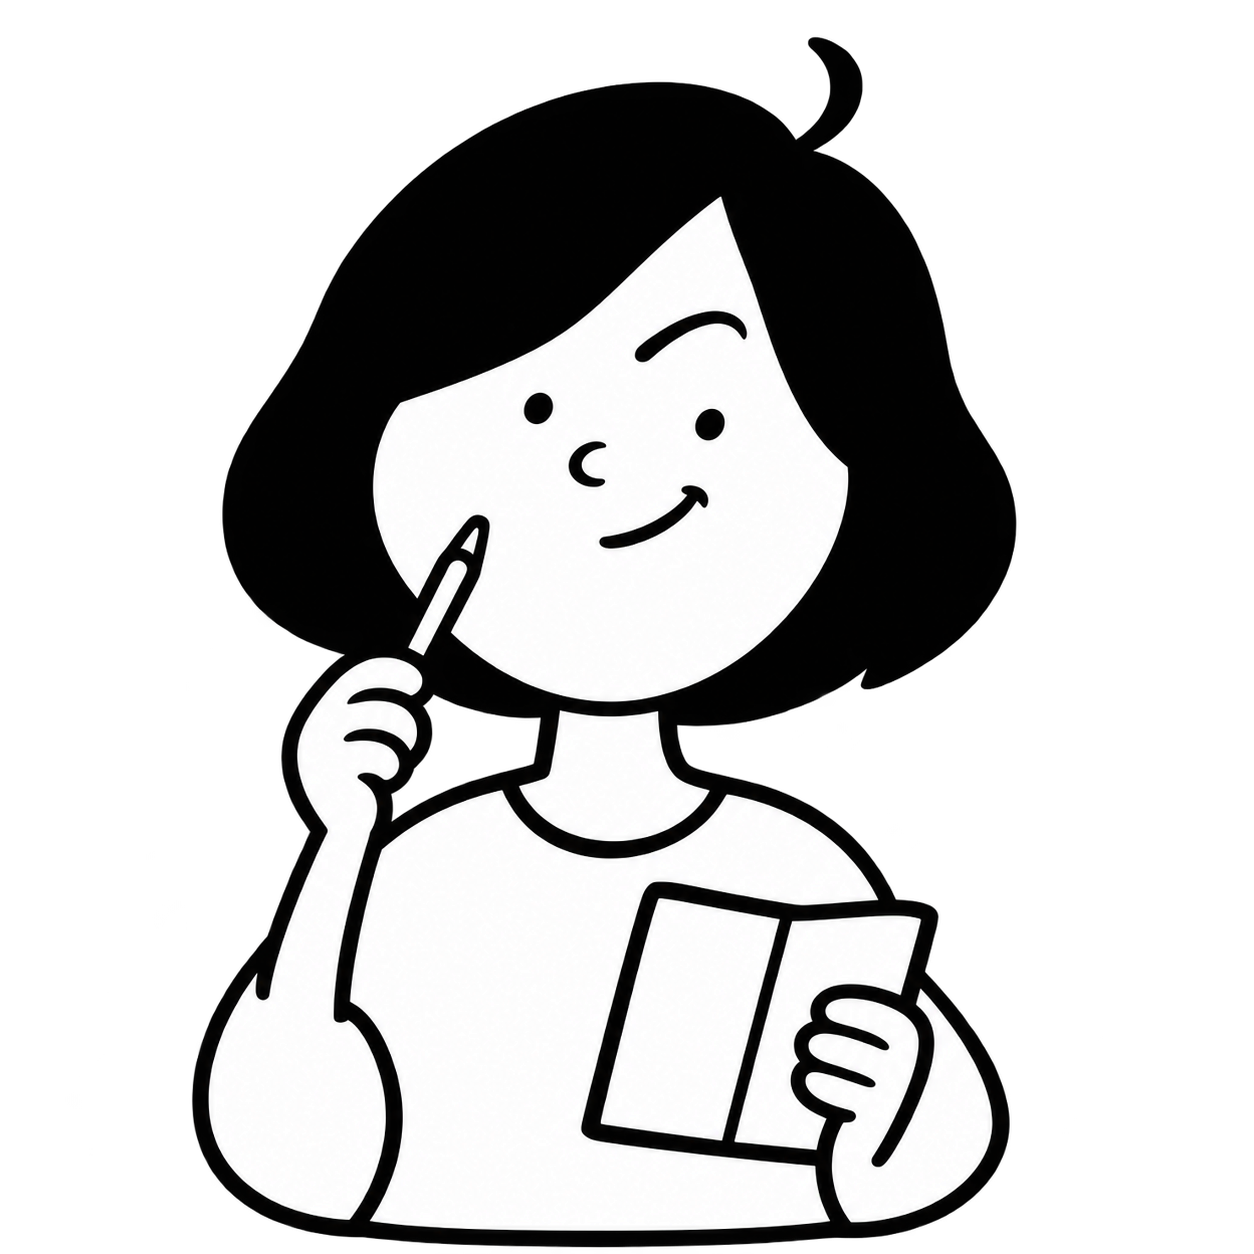
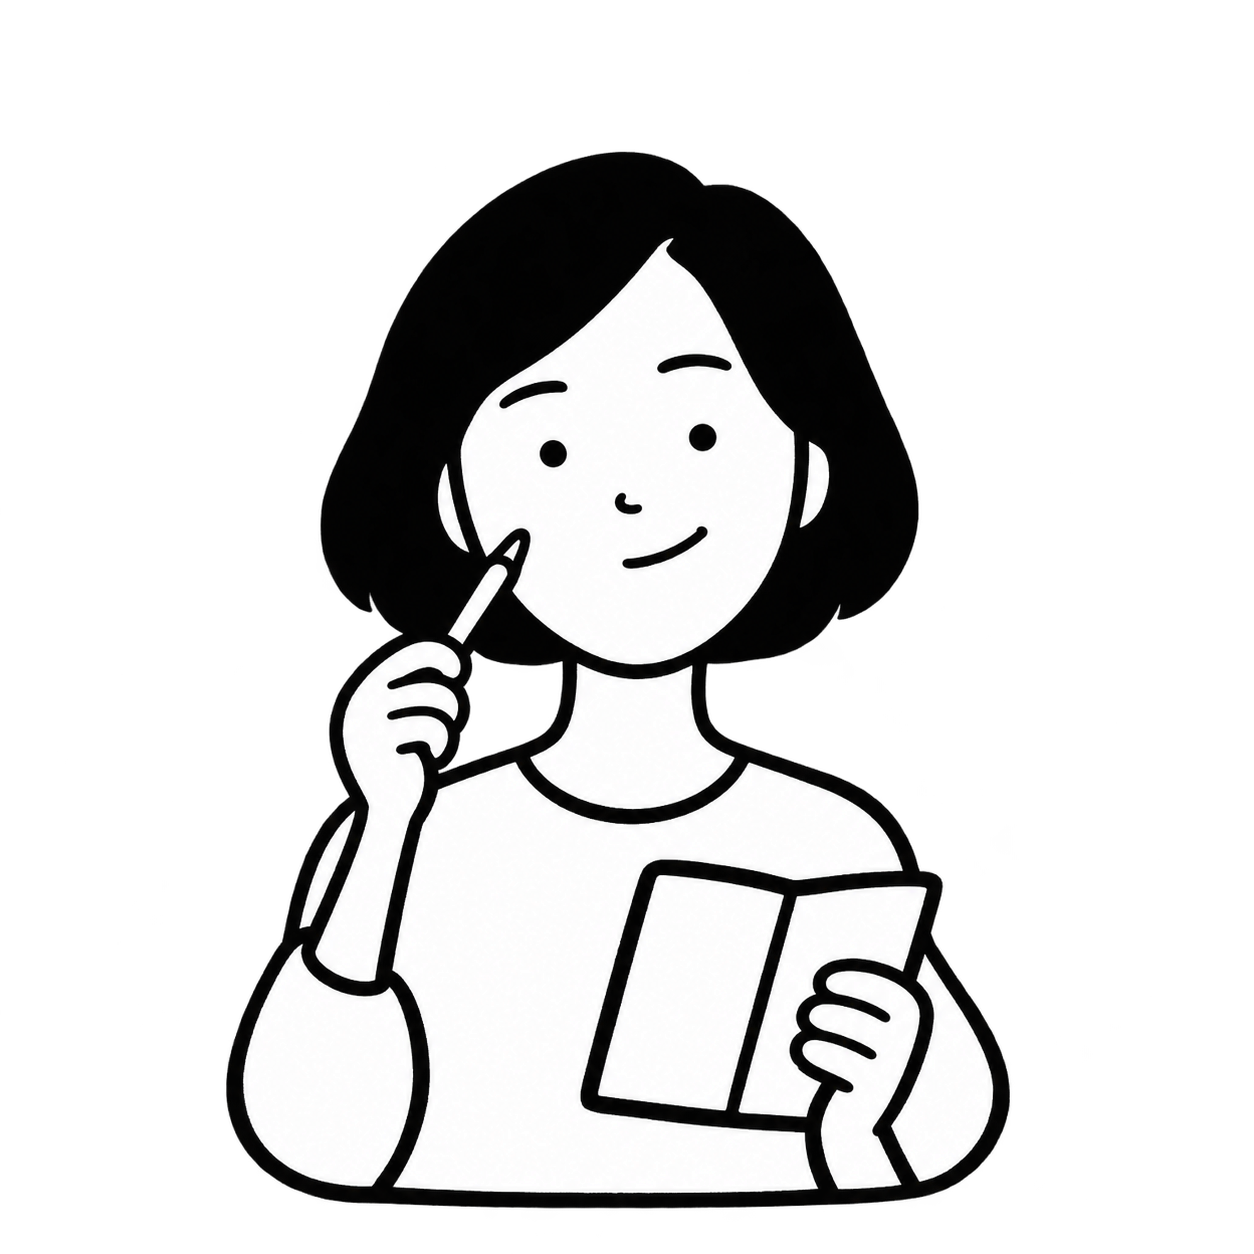
Refine About character and add two subtle, visibility-aware blinks

Changed region(s): [[0.1555, 0.0311, 0.8086, 0.9952], [0.4665, 0.2177, 0.4976, 0.2488]]

diff --git a/about/index.html b/about/index.html
@@ -1,7 +1,12 @@
 <!DOCTYPE html>
-<html lang="ko"><head><meta charset="utf-8"><meta name="viewport" content="width=device-width, initial-scale=1"><meta name="robots" content="index,follow,max-image-preview:large"><title>마케터 황다원 · 다원해 스튜디오 | Dawon Hae STUDIO</title><script defer src="/assets/analytics.js?v=e4a558864d"></script><meta name="description" content="브랜드 인하우스와 대행 실무를 바탕으로 콘텐츠, 인플루언서, 그로스, CRM 마케팅을 기획하고 운영합니다."><meta name="theme-color" content="#ffffff"><link rel="canonical" href="https://da1hae.xyz/about/"><meta property="og:title" content="마케터 황다원 · 다원해 스튜디오"><meta property="og:description" content="브랜드 인하우스와 대행 실무를 바탕으로 콘텐츠, 인플루언서, 그로스, CRM 마케팅을 기획하고 운영합니다."><meta property="og:type" content="website"><meta property="og:url" content="https://da1hae.xyz/about/"><link rel="stylesheet" href="/assets/site.css?v=03ca798263"><link rel="stylesheet" href="/assets/monthly.css?v=ada0155dbe"><script defer src="/assets/site.js?v=06c368c6db"></script><script type="application/ld+json">{"@context": "https://schema.org", "@graph": [{"@type": "Organization", "@id": "https://da1hae.xyz/#organization", "name": "Dawon Hae STUDIO", "alternateName": "다원해 스튜디오", "url": "https://da1hae.xyz/", "email": "ramy_da@naver.com", "sameAs": ["https://instagram.com/1hae.exe"], "description": "소상공인, 초기 브랜드, 프리랜서 브랜드를 위한 1인 마케팅 대행 서비스. 브랜드 진단, 콘텐츠 마케팅 대행, 인스타그램 운영 대행, 블로그 운영 대행, 광고 운영 대행, 인플루언서 마케팅 대행, 마케팅 컨설팅과 교육을 제공합니다.", "areaServed": "KR", "knowsAbout": ["1인 마케팅 대행사", "프리랜서 마케터", "브랜드 마케팅 대행", "콘텐츠 마케팅 대행", "인스타그램 운영 대행", "블로그 운영 대행", "광고 운영 대행", "인플루언서 마케팅 대행", "마케팅 컨설팅", "소상공인 마케팅", "브랜드 진단", "마케팅 운영 설계"]}, {"@type": "WebPage", "name": "마케터 황다원 · 다원해 스튜디오", "description": "브랜드 인하우스와 대행 실무를 바탕으로 콘텐츠, 인플루언서, 그로스, CRM 마케팅을 기획하고 운영합니다.", "url": "https://da1hae.xyz/about/", "inLanguage": "ko-KR"}, {"@type": "WebSite", "@id": "https://da1hae.xyz/#website", "url": "https://da1hae.xyz/", "name": "Dawon Hae STUDIO", "publisher": {"@id": "https://da1hae.xyz/#organization"}, "inLanguage": "ko-KR"}, {"@type": "BreadcrumbList", "itemListElement": [{"@type": "ListItem", "position": 1, "name": "Dawon Hae STUDIO", "item": "https://da1hae.xyz/"}, {"@type": "ListItem", "position": 2, "name": "마케터 황다원 · 다원해 스튜디오", "item": "https://da1hae.xyz/about/"}]}]}</script><meta name="naver-site-verification" content="80b5d69b1bb82f4783c2144546d1ea73581bb99a" /><link rel="icon" href="/favicon.ico?v=a33e666567" sizes="16x16 32x32 48x48 64x64 128x128 256x256"><link rel="icon" href="/assets/brand/favicon.svg?v=a33e666567" type="image/svg+xml" sizes="any"><link rel="apple-touch-icon" href="/assets/brand/apple-touch-icon.png?v=a33e666567" sizes="180x180"><link rel="stylesheet" href="/assets/clarity.css?v=9805a95d33"><script defer src="/assets/clarity.js?v=cbc6c26161"></script><link rel="stylesheet" href="/assets/editorial.css?v=ddcc275d3a"><script defer src="/assets/editorial.js?v=9d00cc8e6f"></script></head><body class="page-about"><a class="skip" href="#main">본문으로 건너뛰기</a>
+<html lang="ko"><head><meta charset="utf-8"><meta name="viewport" content="width=device-width, initial-scale=1"><meta name="robots" content="index,follow,max-image-preview:large"><title>마케터 황다원 · 다원해 스튜디오 | Dawon Hae STUDIO</title><script defer src="/assets/analytics.js?v=e4a558864d"></script><meta name="description" content="브랜드 인하우스와 대행 실무를 바탕으로 콘텐츠, 인플루언서, 그로스, CRM 마케팅을 기획하고 운영합니다."><meta name="theme-color" content="#ffffff"><link rel="canonical" href="https://da1hae.xyz/about/"><meta property="og:title" content="마케터 황다원 · 다원해 스튜디오"><meta property="og:description" content="브랜드 인하우스와 대행 실무를 바탕으로 콘텐츠, 인플루언서, 그로스, CRM 마케팅을 기획하고 운영합니다."><meta property="og:type" content="website"><meta property="og:url" content="https://da1hae.xyz/about/"><link rel="stylesheet" href="/assets/site.css?v=03ca798263"><link rel="stylesheet" href="/assets/monthly.css?v=ada0155dbe"><script defer src="/assets/site.js?v=06c368c6db"></script><script type="application/ld+json">{"@context": "https://schema.org", "@graph": [{"@type": "Organization", "@id": "https://da1hae.xyz/#organization", "name": "Dawon Hae STUDIO", "alternateName": "다원해 스튜디오", "url": "https://da1hae.xyz/", "email": "ramy_da@naver.com", "sameAs": ["https://instagram.com/1hae.exe"], "description": "소상공인, 초기 브랜드, 프리랜서 브랜드를 위한 1인 마케팅 대행 서비스. 브랜드 진단, 콘텐츠 마케팅 대행, 인스타그램 운영 대행, 블로그 운영 대행, 광고 운영 대행, 인플루언서 마케팅 대행, 마케팅 컨설팅과 교육을 제공합니다.", "areaServed": "KR", "knowsAbout": ["1인 마케팅 대행사", "프리랜서 마케터", "브랜드 마케팅 대행", "콘텐츠 마케팅 대행", "인스타그램 운영 대행", "블로그 운영 대행", "광고 운영 대행", "인플루언서 마케팅 대행", "마케팅 컨설팅", "소상공인 마케팅", "브랜드 진단", "마케팅 운영 설계"]}, {"@type": "WebPage", "name": "마케터 황다원 · 다원해 스튜디오", "description": "브랜드 인하우스와 대행 실무를 바탕으로 콘텐츠, 인플루언서, 그로스, CRM 마케팅을 기획하고 운영합니다.", "url": "https://da1hae.xyz/about/", "inLanguage": "ko-KR"}, {"@type": "WebSite", "@id": "https://da1hae.xyz/#website", "url": "https://da1hae.xyz/", "name": "Dawon Hae STUDIO", "publisher": {"@id": "https://da1hae.xyz/#organization"}, "inLanguage": "ko-KR"}, {"@type": "BreadcrumbList", "itemListElement": [{"@type": "ListItem", "position": 1, "name": "Dawon Hae STUDIO", "item": "https://da1hae.xyz/"}, {"@type": "ListItem", "position": 2, "name": "마케터 황다원 · 다원해 스튜디오", "item": "https://da1hae.xyz/about/"}]}]}</script><meta name="naver-site-verification" content="80b5d69b1bb82f4783c2144546d1ea73581bb99a" /><link rel="icon" href="/favicon.ico?v=a33e666567" sizes="16x16 32x32 48x48 64x64 128x128 256x256"><link rel="icon" href="/assets/brand/favicon.svg?v=a33e666567" type="image/svg+xml" sizes="any"><link rel="apple-touch-icon" href="/assets/brand/apple-touch-icon.png?v=a33e666567" sizes="180x180"><link rel="stylesheet" href="/assets/clarity.css?v=9805a95d33"><script defer src="/assets/clarity.js?v=cbc6c26161"></script><link rel="stylesheet" href="/assets/editorial.css?v=ddcc275d3a"><script defer src="/assets/editorial.js?v=9d00cc8e6f"></script><link rel="stylesheet" href="/assets/character.css?v=4954b29ac8"><script defer src="/assets/character.js?v=00d5df3261"></script></head><body class="page-about"><a class="skip" href="#main">본문으로 건너뛰기</a>
 <header class="site-header"><div class="wrap"><nav class="nav" aria-label="메인 메뉴">
 <a class="wordmark" href="/" aria-label="다원해 스튜디오 홈"><span>DAWONHAE<b>.</b></span><small>1인 마케팅 스튜디오</small></a>
 <button class="menu-toggle" type="button" aria-controls="main-menu" aria-expanded="false" data-menu-toggle>메뉴 <span aria-hidden="true">+</span></button>
 <div class="nav-links" id="main-menu" data-menu><a href="/">Main</a><a href="/services/">Service</a><a href="/notes/">Notes</a><a class="nav-contact" href="/contact/">마케팅 문의 <svg class="arrow" viewBox="0 0 24 24" aria-hidden="true"><path d="M4 12h16M14 6l6 6-6 6"/></svg></a></div>
-</nav></div></header><main id="main"><section class="wrap page-intro"><nav class="breadcrumb" aria-label="현재 위치"><a href="/">Home</a><span aria-hidden="true">/</span>About</nav><span class="eyebrow">ABOUT DAWON HAE</span><h1><span class="copy-unit">브랜드 마케팅을</span> <span class="copy-unit">기획하고 운영합니다.</span></h1><p class="lead">브랜드 인하우스와 대행 실무를 거쳐, 지금은 브랜드의 실행 파트너로 일합니다.</p></section><section class="wrap about-profile"><div class="about-profile-copy"><span class="eyebrow">MARKETER · MARKETING PM</span><h2>황다원</h2><p>콘텐츠와 광고, <span class="copy-unit">인플루언서 협업부터</span> 그로스 · CRM까지. 브랜드의 목표에 필요한 업무를 연결하고 직접 실행합니다.</p><a class="editorial-link" href="/services/">서비스 살펴보기 <svg class="arrow" viewBox="0 0 24 24" aria-hidden="true"><path d="M4 12h16M14 6l6 6-6 6"/></svg></a></div><img class="about-character" src="/assets/brand/marketer-line.png" alt="노트와 펜을 든 마케터를 표현한 블랙 라인 캐릭터" width="1254" height="1254" decoding="async"></section><section class="wrap about-career"><div class="about-section-label"><span class="eyebrow">CAREER</span><h2>주요 경력</h2></div><ol class="career-timeline"><li><span class="career-period">2025–</span><div><h3>프리랜서 마케터</h3><p class="career-highlight">2억 규모 인플루언서 마케팅</p><p>SNS 채널 세팅 · 그로스 · 퍼포먼스 마케팅 · 카페24 자사몰 운영</p></div></li><li><span class="career-period">2022–2024</span><div><h3>에듀테크 브랜드 H</h3><p class="career-highlight">브랜드 런칭 · 그로스 마케팅</p><p><span class="copy-unit">브랜드 메시지</span> · 콘텐츠 · 체험단 · CRM</p></div></li><li><span class="career-period">2020–2021</span><div><h3>뷰티 브랜드 7</h3><p class="career-highlight">브랜드 콘텐츠 · <span class="copy-unit">인플루언서 협업</span></p><p>콘텐츠 기획과 캠페인 운영</p></div></li><li><span class="career-period">2018–2020</span><div><h3>인플루언서 플랫폼 M</h3><p class="career-highlight">2.5억 규모 인플루언서 마케팅</p><p>브랜드별 캠페인 기획 · 운영</p></div></li><li><span class="career-period">2016–2018</span><div><h3>방송사 J</h3><p class="career-highlight">예능 · 드라마 콘텐츠 마케팅</p><p>온라인 채널 운영</p></div></li></ol></section><section class="wrap about-principles"><div class="about-section-label"><span class="eyebrow">HOW I WORK</span><h2>일하는 기준</h2></div><div class="principle-grid"><div><b>01</b><h3>목표를 구체적으로</h3><p>현재 상황과 우선순위를 먼저 확인합니다.</p></div><div><b>02</b><h3>역할을 명확하게</h3><p>담당 업무와 결과물, 일정을 합의합니다.</p></div><div><b>03</b><h3>다음 실행까지</h3><p>결과를 분석하고 개선안을 남깁니다.</p></div></div></section><section class="contact-band"><div class="wrap contact-band-inner"><div class="contact-title"><span class="eyebrow">CONTACT</span><h2>다음 달의 마케팅을 함께.</h2><p>현재 상황을 알려주시면, 필요한 업무와 일정을 제안합니다.</p></div><div class="contact-mini"><aside class="slot-notice" data-slot-emphasis aria-label="월 신규 협업 슬롯 2개만 운영합니다."><div class="slot-copy"><span>월 신규 협업 슬롯</span><strong>2<span>개만 운영합니다.</span></strong></div></aside><a class="button" href="/contact/">마케팅 문의하기<svg class="arrow" viewBox="0 0 24 24" aria-hidden="true"><path d="M4 12h16M14 6l6 6-6 6"/></svg></a><a class="faq-contact-link" href="/faq/">비용 · 진행 방식 FAQ 보기 <svg class="arrow" viewBox="0 0 24 24" aria-hidden="true"><path d="M4 12h16M14 6l6 6-6 6"/></svg></a></div></div></section></main><footer class="minimal-footer"><div class="minimal-footer-inner"><span>© 2026 디원트</span><span>사업자등록번호 823-06-03931</span><nav aria-label="법적 고지"><a href="https://da1hae.xyz/privacy/">개인정보처리방침</a><a href="https://da1hae.xyz/terms/">이용약관</a></nav></div></footer></body></html>
+</nav></div></header><main id="main"><section class="wrap page-intro"><nav class="breadcrumb" aria-label="현재 위치"><a href="/">Home</a><span aria-hidden="true">/</span>About</nav><span class="eyebrow">ABOUT DAWON HAE</span><h1><span class="copy-unit">브랜드 마케팅을</span> <span class="copy-unit">기획하고 운영합니다.</span></h1><p class="lead">브랜드 인하우스와 대행 실무를 거쳐, 지금은 브랜드의 실행 파트너로 일합니다.</p></section><section class="wrap about-profile"><div class="about-profile-copy"><span class="eyebrow">MARKETER · MARKETING PM</span><h2>황다원</h2><p>콘텐츠와 광고, <span class="copy-unit">인플루언서 협업부터</span> 그로스 · CRM까지. 브랜드의 목표에 필요한 업무를 연결하고 직접 실행합니다.</p><a class="editorial-link" href="/services/">서비스 살펴보기 <svg class="arrow" viewBox="0 0 24 24" aria-hidden="true"><path d="M4 12h16M14 6l6 6-6 6"/></svg></a></div><div class="about-character" data-character>
+<img src="/assets/brand/marketer-line.png?v=44aa53249c" alt="펜을 볼에 대고 생각하는 마케터의 블랙 라인 캐릭터" width="1254" height="1254" decoding="async">
+<svg class="character-eyelids" viewBox="0 0 1254 1254" aria-hidden="true" focusable="false">
+<g fill="#fff"><ellipse cx="553" cy="453" rx="20" ry="19"/><ellipse cx="702" cy="437" rx="20" ry="19"/></g>
+<g fill="none" stroke="#151515" stroke-width="7" stroke-linecap="round"><path d="M541 453 Q553 461 565 452"/><path d="M690 437 Q702 445 714 436"/></g>
+</svg></div></section><section class="wrap about-career"><div class="about-section-label"><span class="eyebrow">CAREER</span><h2>주요 경력</h2></div><ol class="career-timeline"><li><span class="career-period">2025–</span><div><h3>프리랜서 마케터</h3><p class="career-highlight">2억 규모 인플루언서 마케팅</p><p>SNS 채널 세팅 · 그로스 · 퍼포먼스 마케팅 · 카페24 자사몰 운영</p></div></li><li><span class="career-period">2022–2024</span><div><h3>에듀테크 브랜드 H</h3><p class="career-highlight">브랜드 런칭 · 그로스 마케팅</p><p><span class="copy-unit">브랜드 메시지</span> · 콘텐츠 · 체험단 · CRM</p></div></li><li><span class="career-period">2020–2021</span><div><h3>뷰티 브랜드 7</h3><p class="career-highlight">브랜드 콘텐츠 · <span class="copy-unit">인플루언서 협업</span></p><p>콘텐츠 기획과 캠페인 운영</p></div></li><li><span class="career-period">2018–2020</span><div><h3>인플루언서 플랫폼 M</h3><p class="career-highlight">2.5억 규모 인플루언서 마케팅</p><p>브랜드별 캠페인 기획 · 운영</p></div></li><li><span class="career-period">2016–2018</span><div><h3>방송사 J</h3><p class="career-highlight">예능 · 드라마 콘텐츠 마케팅</p><p>온라인 채널 운영</p></div></li></ol></section><section class="wrap about-principles"><div class="about-section-label"><span class="eyebrow">HOW I WORK</span><h2>일하는 기준</h2></div><div class="principle-grid"><div><b>01</b><h3>목표를 구체적으로</h3><p>현재 상황과 우선순위를 먼저 확인합니다.</p></div><div><b>02</b><h3>역할을 명확하게</h3><p>담당 업무와 결과물, 일정을 합의합니다.</p></div><div><b>03</b><h3>다음 실행까지</h3><p>결과를 분석하고 개선안을 남깁니다.</p></div></div></section><section class="contact-band"><div class="wrap contact-band-inner"><div class="contact-title"><span class="eyebrow">CONTACT</span><h2>다음 달의 마케팅을 함께.</h2><p>현재 상황을 알려주시면, 필요한 업무와 일정을 제안합니다.</p></div><div class="contact-mini"><aside class="slot-notice" data-slot-emphasis aria-label="월 신규 협업 슬롯 2개만 운영합니다."><div class="slot-copy"><span>월 신규 협업 슬롯</span><strong>2<span>개만 운영합니다.</span></strong></div></aside><a class="button" href="/contact/">마케팅 문의하기<svg class="arrow" viewBox="0 0 24 24" aria-hidden="true"><path d="M4 12h16M14 6l6 6-6 6"/></svg></a><a class="faq-contact-link" href="/faq/">비용 · 진행 방식 FAQ 보기 <svg class="arrow" viewBox="0 0 24 24" aria-hidden="true"><path d="M4 12h16M14 6l6 6-6 6"/></svg></a></div></div></section></main><footer class="minimal-footer"><div class="minimal-footer-inner"><span>© 2026 디원트</span><span>사업자등록번호 823-06-03931</span><nav aria-label="법적 고지"><a href="https://da1hae.xyz/privacy/">개인정보처리방침</a><a href="https://da1hae.xyz/terms/">이용약관</a></nav></div></footer></body></html>

diff --git a/assets/character.js b/assets/character.js
@@ -1,0 +1,44 @@
+/* Two quiet blinks per page visit, only while the portrait is in view. */
+(() => {
+  const character = document.querySelector('[data-character]');
+  if (!character || !('IntersectionObserver' in window)) return;
+  const picture = character.querySelector('img');
+  const reducedMotion = window.matchMedia('(prefers-reduced-motion: reduce)');
+  let visible = false;
+  let count = 0;
+  let pending = null;
+  let finish = null;
+  const ready = () => visible && !document.hidden && !reducedMotion.matches
+    && picture.complete && picture.naturalWidth > 0 && count < 2;
+  const stop = () => {
+    clearTimeout(pending);
+    clearTimeout(finish);
+    pending = finish = null;
+    character.classList.remove('is-blinking');
+  };
+  const schedule = () => {
+    if (pending !== null || finish !== null || !ready()) return;
+    pending = setTimeout(() => {
+      pending = null;
+      if (!ready()) return;
+      count += 1;
+      character.classList.add('is-blinking');
+      finish = setTimeout(() => {
+        character.classList.remove('is-blinking');
+        finish = null;
+        schedule();
+      }, 220);
+    }, count === 0 ? 2600 : 12000);
+  };
+  const sync = () => { stop(); schedule(); };
+  const observer = new IntersectionObserver(entries => {
+    visible = entries.some(entry => entry.isIntersecting && entry.intersectionRatio >= 0.6);
+    sync();
+  }, { threshold: [0, 0.6] });
+  observer.observe(character);
+  picture.addEventListener('load', schedule, { once:true });
+  document.addEventListener('visibilitychange', sync);
+  reducedMotion.addEventListener('change', sync);
+  window.addEventListener('pagehide', stop);
+  window.addEventListener('pageshow', sync);
+})();

diff --git a/assets/character.css b/assets/character.css
@@ -1,0 +1,12 @@
+/* The illustration stays still; only the two registered eyelids change. */
+.about-character { position:relative; max-height:none; aspect-ratio:1; }
+.about-character > img { display:block; width:100%; height:auto; }
+.character-eyelids { position:absolute; inset:0; width:100%; height:100%; opacity:0; pointer-events:none; }
+.about-character.is-blinking .character-eyelids { animation:character-blink 220ms ease-in-out both; }
+@keyframes character-blink {
+  0%, 100% { opacity:0; }
+  35%, 65% { opacity:1; }
+}
+@media (prefers-reduced-motion:reduce) {
+  .about-character.is-blinking .character-eyelids { animation:none; opacity:0; }
+}
